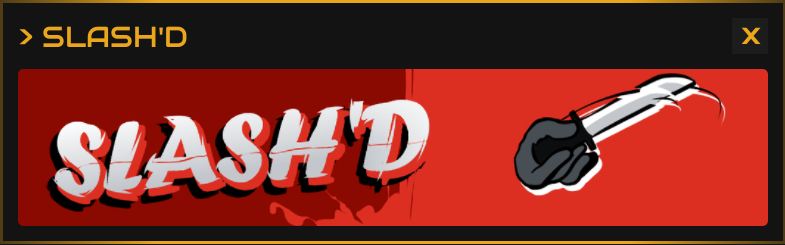
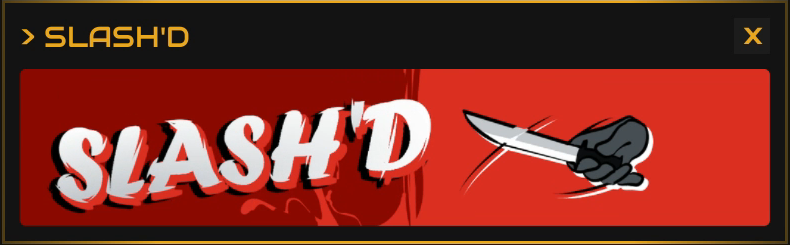
[1.4.9]
Added gif previews to og-image.php. Fixed bug displaying static gif previews in shop. Modified support page to show new supporter rewards. Updated startuptest.

Changed region(s): [[0.0, 0.0, 1.0, 1.0], [0.5809, 0.2857, 0.9172, 0.8286]]

diff --git a/startuptest.html b/startuptest.html
@@ -29,28 +29,39 @@
     <!--<h4 class="titlepath" id="typed-text" data-text="agent@framework:/usr/home"></h4>-->
   </header>
   <div class="ascii">
-    <pre id="ogre">              _  __                           
+    <div class="ascii-text">
+      <pre id="ogre">              _  __                           
  _ __ ___  __| |/ _| ___  _ __ ___  _ __ __ _ 
 | '__/ _ \/ _` | |_ / _ \| '__/ _ \| '__/ _` |
 | | |  __/ (_| |  _| (_) | |_| (_) | | | (_| |
 |_|  \___|\__,_|_|  \___/|_(_)\___/|_|  \__, |
                                         |___/ 
-    </pre>
-
-  </div>
-    <div class="homepage-content">
-        <div class="homepage-navigation">
-            <a href="/shop" class="nav-card">
-                <h3>Daily Shop</h3>
-            </a>
-            <a href="/gallery" class="nav-card">
-                <h3>Playercard Gallery</h3>
-            </a>
-            <a href="/about" class="nav-card">
-                <h3>About</h3>
-            </a>
-        </div>
+      </pre>
+<pre id="welcome">
++========= Welcome to Redfor.org =========+
+|                                         |
+|   1. <a href="https://redfor.org/shop">Boot shop</a>                          |
+|   2. <a href="https://redfor.org/gallery">Boot gallery</a>                       |
+|   3. <a href="https://redfor.org/about">Boot about</a>                         |
+|                                         |
+|                                         |
+|                                         |
+|                                         |
+|                                         |
+|                                         |
+|                                         |
+|                                         |
+|                                         |
+|                                         |
+|                                         |
+|                                         |
++=========================================+
+</pre>
     </div>
+    <div class="ascii-image">
+      <img src="/assets/images/redforsketch.png" alt="Redfor startup art">
+    </div>
+  </div>
 <footer>
     <h5 id="version-number"></h5>
 </footer>

diff --git a/assets/css/global.css b/assets/css/global.css
@@ -128,12 +128,43 @@ a {
   color: #eba61b;
   text-decoration: underline;
 }
+.ascii pre a {
+  color: #eba61b;
+  text-decoration: none;
+}
+.ascii pre a:hover {
+  color: #795c22;
+}
 .homepage-navigation {
   display: flex;
   gap: 20px;
   margin-top: 30px;
   align-items: flex-start;
   text-align: center;
+}
+.ascii {
+  display: flex;
+  align-items: flex-start;
+  justify-content: center;
+  gap: 24px;
+  flex-wrap: wrap;
+  margin: 100px auto 0;
+  max-width: 1000px;
+}
+.ascii-text {
+  min-width: 320px;
+}
+.ascii-image img {
+  max-width: 450px;
+  width: 100%;
+  height: auto;
+  object-fit: contain;
+}
+@media (max-width: 768px) {
+  .ascii {
+    flex-direction: column;
+    align-items: center;
+  }
 }
 .about-image {
   width: 20px;
@@ -406,4 +437,11 @@ a {
 }
 #coin {
   size: 10px;
+}
+.support-message {
+  margin-top: 20px;
+  margin-left: 300px;
+  margin-right: 300px;
+  font-size: 17px;
+  color: #eba61b;
 }

diff --git a/assets/js/version.js b/assets/js/version.js
@@ -35,4 +35,5 @@ document.addEventListener("DOMContentLoaded", () => {
 // window.version = "1.4.5"; //updated splatter
 // window.version = "1.4.6"; // Changed the way og-image renders images, now uses imagecreatefromstring instead of imagecreatefrompng, so it doesn't fail if a file isn't a png. I currently have no idea why, but recently the whole page crashed due to this problem. Every playercard asset is a .png, so I have no clue as to what about Dansen.png caused this issue specifically. Started work on a new homepage.
 // window.version = "1.4.7"; // Added support page, as well as adding support buttons on specific pages. 
-window.version = "1.4.8"; // Added You Are An Idiot gif
+// window.version = "1.4.8"; // Added You Are An Idiot gif
+window.version = "1.4.9"; // Added gif previews to og-image.php. Fixed bug displaying static gif previews in shop. Modified support page to show new supporter rewards. Updated startuptest.

diff --git a/support.html b/support.html
@@ -40,9 +40,10 @@
     <div class="support-message" style="display: flex; flex-direction: column; justify-content: center; align-items: center; min-height: 20vh; text-align: center; padding-left: 10px; padding-right: 10px;">
         <p><a href="https://redfor.org" target="_blank">redfor.org</a> is solely maintained and run by me, <a href="https://github.com/hipjiOfficial" target="_blank">hipji</a>. </p>
         <p>I make no money from this project, and I do it purely for the love of the game. </p>
-        <p>However, if you are a developer, you are familiar with the costs of backend services. I use a few incredible services, including <a href="https://neon.com/" target="_blank">neon</a> for my database,<br>
+        <p>However, if you are a developer, you are familiar with the costs of backend services. I use a few incredible services, including <a href="https://neon.com/" target="_blank">neon</a> for my database,
             <a href="https://railway.com/" target="_blank">railway</a> for my own api, and a few other services.
         <p>I spend money on this project to keep it alive, and I would be extremely appreciative of any contributions to this project.</p>
+        <p>Supporters also gain access to their very own @redfor.org email address, so if you would like an awesome looking email address, consider supporting the project!</p>
         <script type="text/javascript" src="https://cdnjs.buymeacoffee.com/1.0.0/button.prod.min.js" data-name="bmc-button" data-slug="hipji" data-color="#eba61b" data-emoji="🍺"  data-font="Lato" data-text="support redfor.org" data-outline-color="#000000" data-font-color="#000000" data-coffee-color="#FFDD00"></script>
     </div>
 <footer>

diff --git a/assets/js/shop.js b/assets/js/shop.js
@@ -2,7 +2,7 @@
 function setCardImage(imgId, cardName) {
     const img = document.getElementById(imgId);
     const basePath = `/playercards/${cardName}`;
-    const extensions = ["png", "gif"];
+    const extensions = ["gif", "png"];
 
     let i = 0;
 